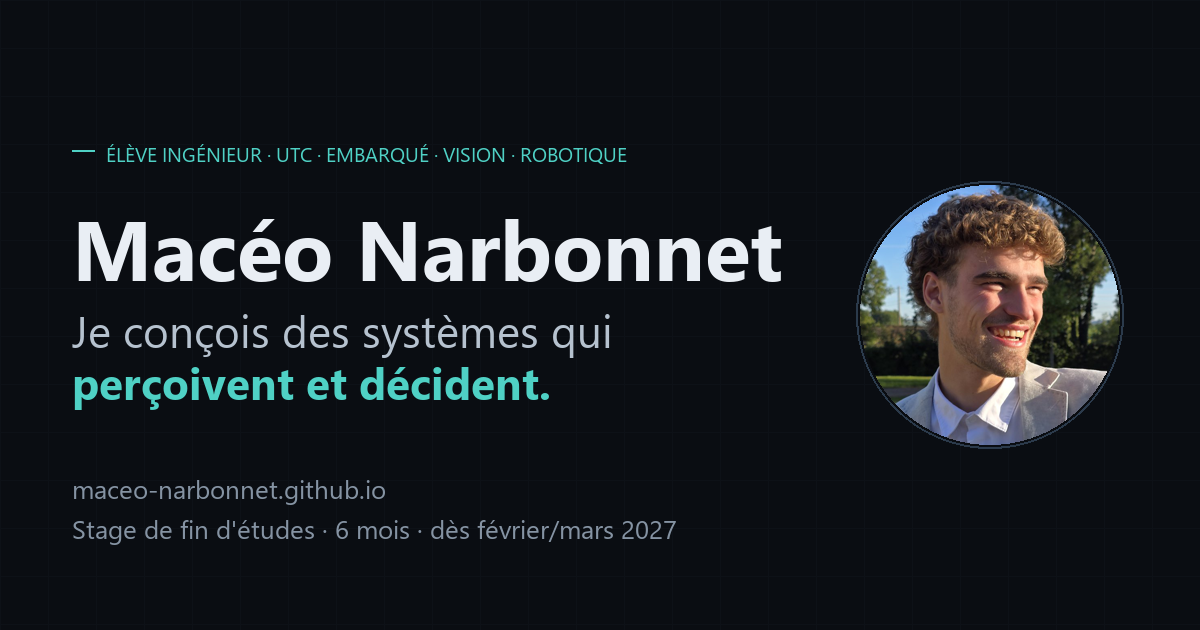
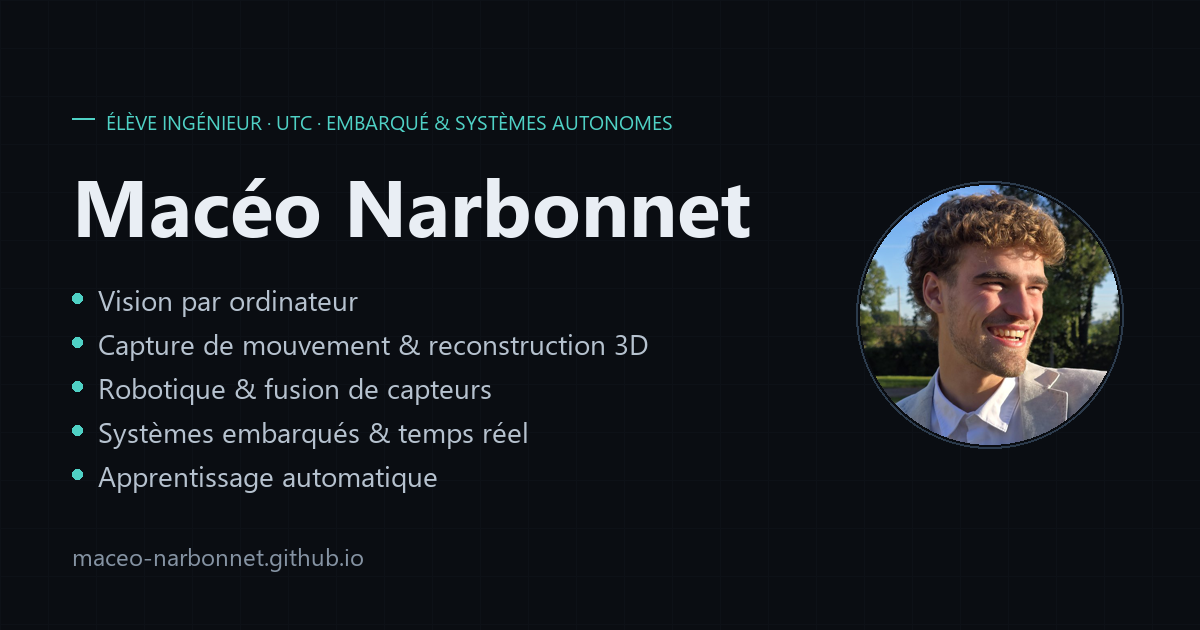
Accueil : liste des domaines à la place des phrases d'accroche
Supprime le titre, le sous-titre et la pastille de disponibilité du hero ;
affiche le nom et une liste factuelle des domaines travaillés (FR/EN).
Image OG régénérée sans accroche.

Changed region(s): [[0.0617, 0.181, 0.6475, 0.9048]]

diff --git a/src/data/site.ts b/src/data/site.ts
@@ -38,9 +38,8 @@ export const content: Record<
     nav: { projects: string; about: string; skills: string; contact: string; cv: string };
     hero: {
       kicker: string;
-      title: string;
-      subtitle: string;
-      availability: string;
+      domainsLabel: string;
+      domains: { name: string; detail: string }[];
       ctaProjects: string;
       ctaCv: string;
       location: string;
@@ -67,11 +66,16 @@ export const content: Record<
     },
     nav: { projects: 'Projets', about: 'Parcours', skills: 'Compétences', contact: 'Contact', cv: 'CV' },
     hero: {
-      kicker: 'Élève ingénieur · UTC · Génie informatique',
-      title: 'Je conçois des systèmes qui perçoivent et décident.',
-      subtitle:
-        "Vision par ordinateur, robotique et temps réel embarqué : de la calibration de caméras à l'ordonnanceur préemptif, je construis des chaînes complètes — capteurs, algorithmes, mesure de l'erreur.",
-      availability: 'Stage de fin d’études · 6 mois · dès février/mars 2027',
+      kicker: 'Élève ingénieur · UTC · Génie informatique · Informatique embarquée & systèmes autonomes',
+      domainsLabel: 'Domaines sur lesquels j’ai travaillé',
+      domains: [
+        { name: 'Vision par ordinateur', detail: 'calibration multi-caméras, triangulation, détection d’objets, suivi' },
+        { name: 'Capture de mouvement & reconstruction 3D', detail: 'estimation de pose (YOLO, RTMPose), évaluation vs Vicon' },
+        { name: 'Robotique & fusion de capteurs', detail: 'ROS 2, LiDAR, IMU, encodeurs, odométrie ICP' },
+        { name: 'Systèmes embarqués & temps réel', detail: 'ordonnancement préemptif, mutex, ARM Cortex-M7, bare-metal' },
+        { name: 'Apprentissage automatique', detail: 'Random Forest, LSTM, hard negative mining, métriques d’évaluation' },
+        { name: 'Génie logiciel', detail: 'C, C++, Python, POO, Qt, Git' },
+      ],
       ctaProjects: 'Voir les projets',
       ctaCv: 'Télécharger le CV',
       location: 'Compiègne, France · Erasmus Västerås, Suède (2026–27)',
@@ -195,11 +199,16 @@ export const content: Record<
     },
     nav: { projects: 'Projects', about: 'Background', skills: 'Skills', contact: 'Contact', cv: 'Resume' },
     hero: {
-      kicker: 'Engineering student · UTC · Computer Engineering',
-      title: 'I build systems that perceive and decide.',
-      subtitle:
-        'Computer vision, robotics and embedded real-time: from camera calibration to preemptive schedulers, I build complete pipelines — sensors, algorithms, and honest error measurement.',
-      availability: 'Final-year internship · 6 months · from February/March 2027',
+      kicker: 'Engineering student · UTC · Computer Engineering · Embedded & autonomous systems',
+      domainsLabel: 'Areas I have worked in',
+      domains: [
+        { name: 'Computer vision', detail: 'multi-camera calibration, triangulation, object detection, tracking' },
+        { name: 'Motion capture & 3D reconstruction', detail: 'pose estimation (YOLO, RTMPose), evaluation against Vicon' },
+        { name: 'Robotics & sensor fusion', detail: 'ROS 2, LiDAR, IMU, encoders, ICP odometry' },
+        { name: 'Embedded & real-time systems', detail: 'preemptive scheduling, mutexes, ARM Cortex-M7, bare-metal' },
+        { name: 'Machine learning', detail: 'Random Forest, LSTM, hard negative mining, evaluation metrics' },
+        { name: 'Software engineering', detail: 'C, C++, Python, OOP, Qt, Git' },
+      ],
       ctaProjects: 'See the projects',
       ctaCv: 'Download resume',
       location: 'Compiègne, France · Erasmus in Västerås, Sweden (2026–27)',

diff --git a/src/styles/global.css b/src/styles/global.css
@@ -112,10 +112,17 @@ body {
 /* ---------- Hero ---------- */
 .hero { padding-block: clamp(3.5rem, 9vw, 7.5rem) clamp(2.5rem, 6vw, 4.5rem); }
 .hero-grid { display: grid; grid-template-columns: 1.4fr 1fr; gap: 3rem; align-items: center; }
-.hero h1 { font-size: clamp(2.2rem, 5.2vw, 3.9rem); font-weight: 700; letter-spacing: -0.02em; max-width: 14ch; }
+.hero h1 { font-size: clamp(2.4rem, 5.2vw, 3.9rem); font-weight: 700; letter-spacing: -0.02em; }
 .hero h1 .accent { color: var(--accent); }
 .hero .lead { color: var(--text-2); font-size: clamp(1.02rem, 1.4vw, 1.15rem); max-width: 56ch; margin-top: 1.3rem; }
 .hero .actions { display: flex; gap: 0.8rem; flex-wrap: wrap; margin-top: 1.8rem; }
+.domains-label { margin-top: 1.6rem; font-family: var(--font-mono); font-size: 0.74rem; letter-spacing: 0.12em; text-transform: uppercase; color: var(--muted); }
+.domains { margin-top: 0.8rem; display: grid; grid-template-columns: 1fr 1fr; gap: 0.55rem 1.4rem; max-width: 640px; }
+.domains li { position: relative; padding-left: 1rem; font-size: 0.95rem; line-height: 1.4; }
+.domains li::before { content: ''; position: absolute; left: 0; top: 0.55em; width: 6px; height: 6px; border-radius: 50%; background: var(--accent); }
+.domains b { display: block; color: var(--text); font-weight: 600; }
+.domains span { color: var(--muted); font-size: 0.86rem; }
+@media (max-width: 600px) { .domains { grid-template-columns: 1fr; } }
 .hero .meta { margin-top: 1.4rem; color: var(--muted); font-size: 0.9rem; font-family: var(--font-mono); }
 .pill {
   display: inline-flex; align-items: center; gap: 0.55rem; padding: 0.4rem 0.8rem; border-radius: 999px; font-size: 0.82rem;
